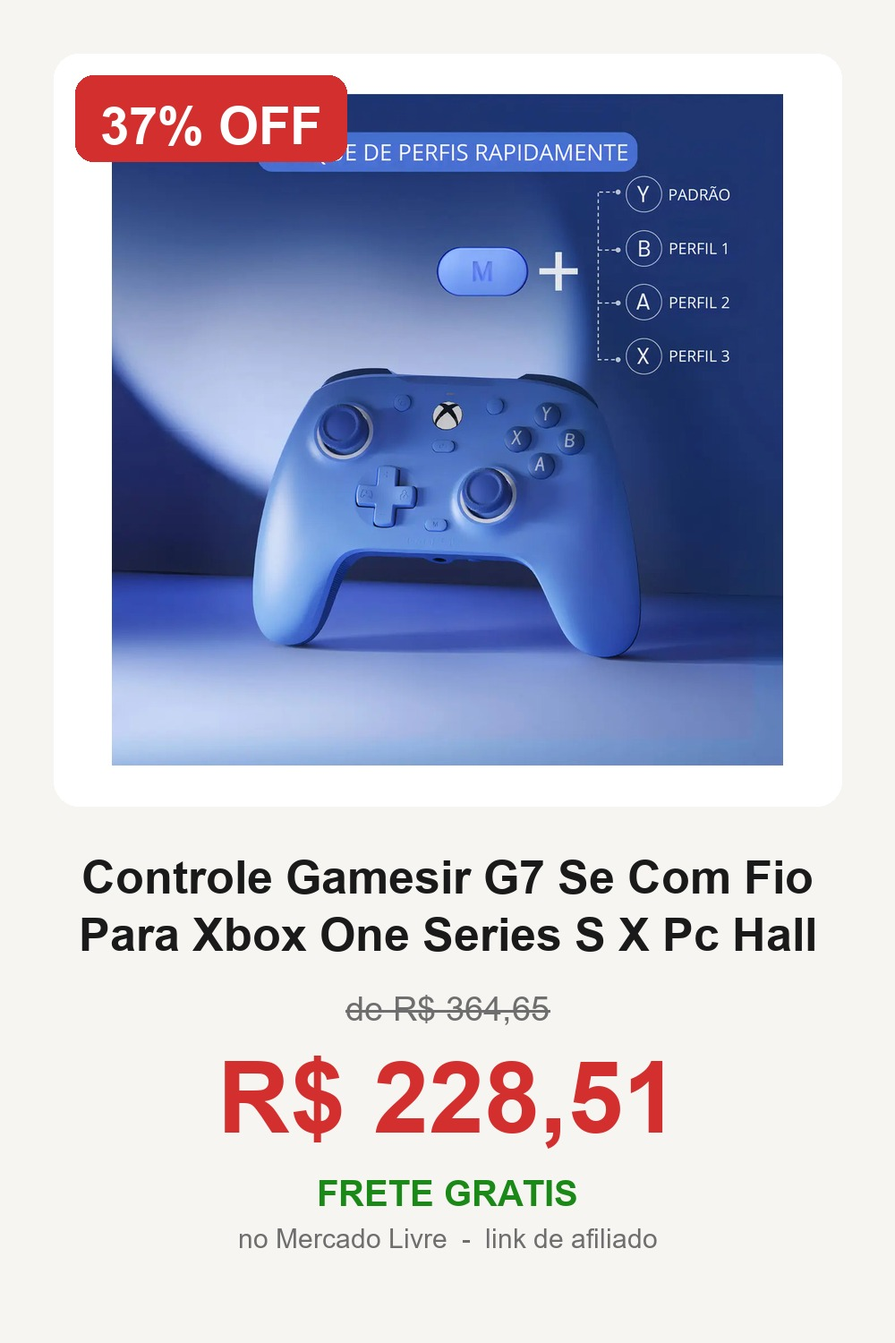
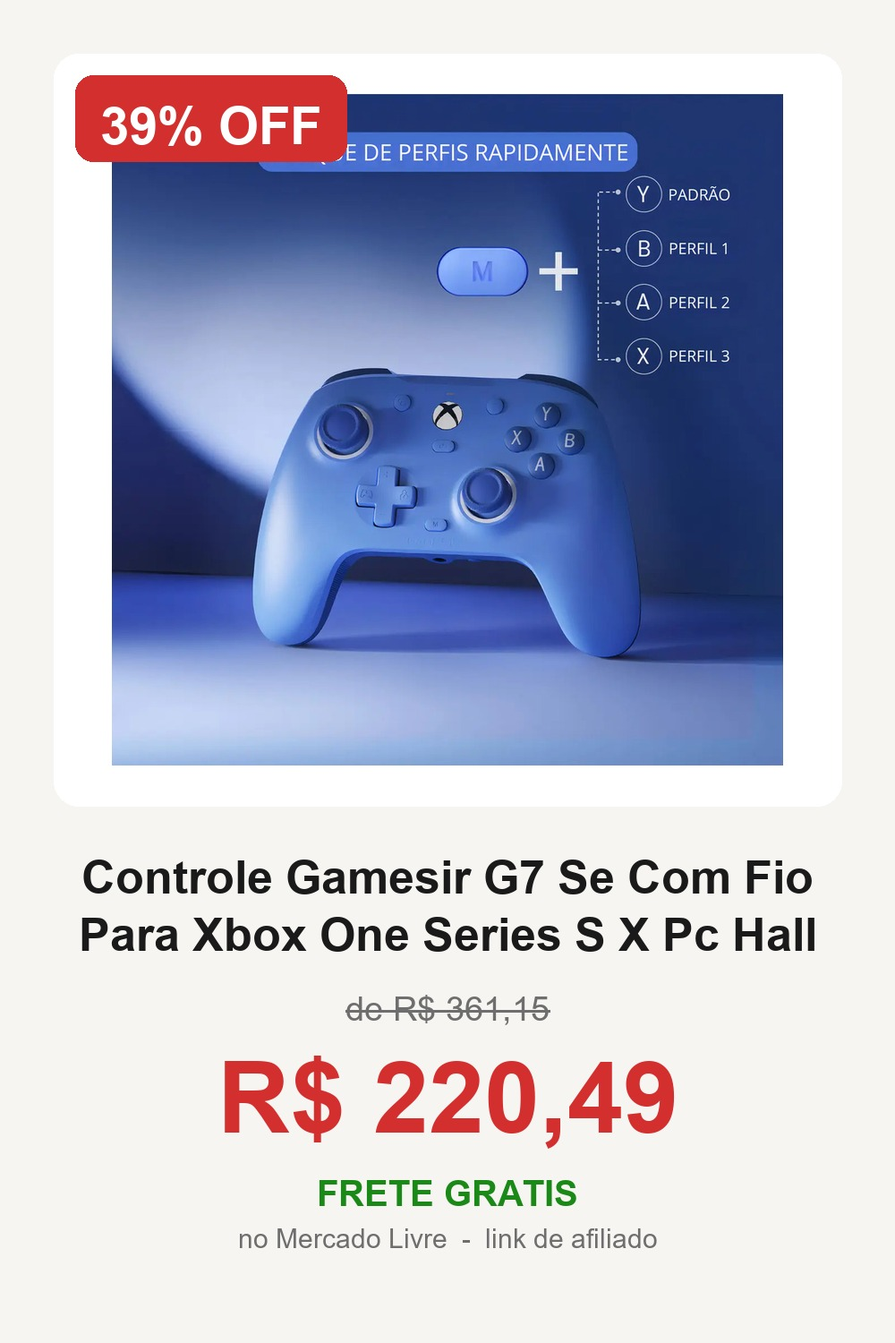
ofertas de 03/09/2026 09:41

Changed region(s): [[0.527, 0.7667, 0.775, 0.8587], [0.527, 0.736, 0.589, 0.7667], [0.155, 0.0613, 0.186, 0.1227]]

diff --git a/index.html b/index.html
@@ -52,46 +52,86 @@ footer{text-align:center;color:var(--sub);font-size:13px;padding:32px 20px 56px;
 <p class="aviso">Os links sao de afiliado: voce paga o mesmo preco e eu recebo uma comissao.</p>
 
 <main>
-  <h2>Achados de 02/09/2026</h2>
+  <h2>Achados de 03/09/2026</h2>
   <div class="grade">
-    <a class="item" href="https://www.mercadolivre.com.br/social/eulleriago?matt_word=lootlabpinterest&amp;matt_tool=51242712&amp;forceInApp=true&amp;ref=BKDtHsgtlVsVm5YjahXwwNdTLCNdoHk%2FYGz0mVS77veQ%2BIxzEgAKVHtendtmFe3o4a1ZdVBh58wDEw9vP3hiYuWu%2Fr8UUgN911I742DUuN4Sql%2FzBAq%2Fz5eH7yy29rQKyXG4bOF%2FvHxTA0Jatkl8jEzxPEL74lotQvk%2F9ccjX5x3WuQ2luuBshlINO6b%2Fo92iETcJw%3D%3D" target="_blank" rel="nofollow sponsored noopener">
-      <img src="img/MLB7087431076.jpg" alt="Controle joystick sem fio Sony PlayStation Dualshock 4 Wireless controller alpin" loading="lazy">
+    <a class="item" href="https://www.mercadolivre.com.br/social/eulleriago?matt_word=lootlabpinterest&amp;matt_tool=51242712&amp;forceInApp=true&amp;ref=BNJxq0vVRyHIVMAdJh2FC2KR3HT3OtnG%2FTlDx4QSzGY9DGMbO9Lk68NVpy%2FlhheNzeMRme7M026asDMY%2FMsAB7H0gQSnGi4ex65FnO2qD7rFlw89uTkdmyhjrxXZgRiYHRAI3E55qq5XbuxL6x256KIwuuzTqctFCmw%2BG4BTqs6XbcN5IKWrNBgj1W0ZQnUA%2FnVOFQ%3D%3D" target="_blank" rel="nofollow sponsored noopener">
+      <img src="img/MLB6993996520.jpg" alt="Kit 2 Câmeras de Segurança Woosh A28B Full HD Dupla Lente Wi-Fi com Visão Noturn" loading="lazy">
       <div class="txt">
-        <span class="tag">75% OFF</span>
-        <h3>Controle joystick sem fio Sony PlayStation Dualshock 4 Wireless contro</h3>
-        <div><span class="preco">R$ 97,47</span><span class="de">R$ 389,90</span></div>
+        <span class="tag">52% OFF</span>
+        <h3>Kit 2 Câmeras de Segurança Woosh A28B Full HD Dupla Lente Wi-Fi com Vi</h3>
+        <div><span class="preco">R$ 241,63</span><span class="de">R$ 500,00</span></div>
       </div>
     </a>
-    <a class="item" href="https://www.mercadolivre.com.br/social/eulleriago?matt_word=lootlabpinterest&amp;matt_tool=51242712&amp;forceInApp=true&amp;ref=BACSKZQXn2hOHjmvYhBrX37If1z%2B8xQTkpBoqB%2FoN6QXRhgisPsqubkbzEpL54iZ4ZYyKjXKLld7omt%2F6Qf83wjeE2x4PYM5mzBTHmCDUAbQA%2FIjGf%2Bru3rdwmSTqAdkjT0oiIzl4DX94kz3G6d3wEA3Zn2PChVCllH6%2BemLz8m6xnXMdiv5aeDJO9kL%2FhJ%2BuX1xEA%3D%3D" target="_blank" rel="nofollow sponsored noopener">
-      <img src="img/MLB6288675738.jpg" alt="Kit Cobre Leito Colcha Casal 3 Peças Boutis Lisas Dupla Face Porta Travesseiro A" loading="lazy">
-      <div class="txt">
-        <span class="tag">59% OFF</span>
-        <h3>Kit Cobre Leito Colcha Casal 3 Peças Boutis Lisas Dupla Face Porta Tra</h3>
-        <div><span class="preco">R$ 76,62</span><span class="de">R$ 187,90</span></div>
-      </div>
-    </a>
-    <a class="item" href="https://www.mercadolivre.com.br/social/eulleriago?matt_word=lootlabpinterest&amp;matt_tool=51242712&amp;forceInApp=true&amp;ref=BPnYxu7sb2Zx2pVYL78tdSvM%2Bzc4cNU1Y6%2FDuqVm9zLvKtoGQF1hnCUi%2F%2FMG%2BaxC3eKgsbIBIRt%2Bd%2BgQP691968nG4vjZNj%2BigH4qiY%2Bw9hGXtMZ7V0cZDlMDED%2BHmhNB7OP6CodIVLVra6YORFqYU0uGmMNipZvdh8IZ%2B81m5PQbXIp47BSi%2FQcoRbBhiGZvR5wgA%3D%3D" target="_blank" rel="nofollow sponsored noopener">
-      <img src="img/MLB5111786668.jpg" alt="Suporte De Mesa Para Tv/monitor De 17 Até 30 Preto Nb F80" loading="lazy">
-      <div class="txt">
-        <span class="tag">56% OFF</span>
-        <h3>Suporte De Mesa Para Tv/monitor De 17 Até 30 Preto Nb F80</h3>
-        <div><span class="preco">R$ 111,05</span><span class="de">R$ 250,90</span></div>
-      </div>
-    </a>
-    <a class="item" href="https://www.mercadolivre.com.br/social/eulleriago?matt_word=lootlabpinterest&amp;matt_tool=51242712&amp;forceInApp=true&amp;ref=BEArtbKuZL3J6hjBmAwVAuZJEBqH7wWWtzSGQtGY6%2F2YeN%2FJCrIqGBb8HUMU%2B1bETIHdHlptwRLpbTp4pFU9GFtnRYLhfGc08XcJmAXNOmmTIluM68G3kMfmW2KfB5Z3qYnQytyuAbyQmzkzxL4TrloLggXOBiWmb%2BK3eUy1LFT932n2HllaLFLE2JQPq9DmKGnnWQ%3D%3D" target="_blank" rel="nofollow sponsored noopener">
-      <img src="img/MLB4207618703.jpg" alt="Filamento 3d Petg 1,75mm 1kg Cor Laranja Masterprint Laranja" loading="lazy">
+    <a class="item" href="https://www.mercadolivre.com.br/social/eulleriago?matt_word=lootlabpinterest&amp;matt_tool=51242712&amp;forceInApp=true&amp;ref=BHvyKb%2BieJC7aOW74oGw4Qn0DmenQDiP8o2p%2B6wvEaHeodraEpugPxUYJi%2BsS1eGL3KFVt4PKIxSGnH2cVfBMSDALrSggw4jjUuwwV7F4O3SjVwDW3iKD7fOEe9xlaE4qoQ9gqy%2BNuSDlsMpvTQKZVGGN5UoSHJOhmd5mOe3yv5GQMUcYTEXZ3rL5qAkX3kVhaMF0A%3D%3D" target="_blank" rel="nofollow sponsored noopener">
+      <img src="img/MLB5410745852.jpg" alt="Fone de Ouvido Bluetooth 5.4 soundcore P30i da Anker, Cancelamento de Ruído Adap" loading="lazy">
       <div class="txt">
         <span class="tag">49% OFF</span>
-        <h3>Filamento 3d Petg 1,75mm 1kg Cor Laranja Masterprint Laranja</h3>
-        <div><span class="preco">R$ 75,50</span><span class="de">R$ 147,01</span></div>
+        <h3>Fone de Ouvido Bluetooth 5.4 soundcore P30i da Anker, Cancelamento de </h3>
+        <div><span class="preco">R$ 196,60</span><span class="de">R$ 389,00</span></div>
       </div>
     </a>
-    <a class="item" href="https://www.mercadolivre.com.br/social/eulleriago?matt_word=lootlabpinterest&amp;matt_tool=51242712&amp;forceInApp=true&amp;ref=BNW8%2FKuYXHbimDSS5kc8%2BdMj%2BrgvGOWlL9eIMPlBJaQQBQD3mZG%2BMXSLwZEu%2FYqXxZXSfuYeGF3hb3R64yzUOVwW%2B131x219ZAJEoVYxwKVHqDM0lasaTsvB4hNO2I7v6N%2FlstHzuqBcPByw6tv9xabFn57PhMLU%2Fee4TZfIde6RoTkMcQO3GJFDBFU1Swv4JLEsQQ%3D%3D" target="_blank" rel="nofollow sponsored noopener">
-      <img src="img/MLB6759050896.jpg" alt="Controle Gamesir T4 Nova Lite sem Fio para Pc Switch Android Ios Steam Celular H" loading="lazy">
+    <a class="item" href="https://www.mercadolivre.com.br/social/eulleriago?matt_word=lootlabpinterest&amp;matt_tool=51242712&amp;forceInApp=true&amp;ref=BM2GNFFJjwgSrE0%2Bp7mrsahojt91pOGCtPdkoD3QSwRGT7rV5LMbCMKVSRNeV85s%2FKy9Fxk4Qt7bvW3jOKgGkIgnmQJX0E5tRzWCNTvurW2qG5zfpskgJOZDqJnKMo%2B8ob0AvyehcUWp8Z%2FcTDsaXUZr2lAS8m6wEkF63Hof6ES5M8hqz%2F2n1Y9ZAt%2Bh6Ip9t5q3HQ%3D%3D" target="_blank" rel="nofollow sponsored noopener">
+      <img src="img/MLB6575378320.jpg" alt="Fone De Ouvido Headphone Dapon H02d Bluetooth 5.1 Over-ear 22 Horas De Bateria R" loading="lazy">
+      <div class="txt">
+        <span class="tag">49% OFF</span>
+        <h3>Fone De Ouvido Headphone Dapon H02d Bluetooth 5.1 Over-ear 22 Horas De</h3>
+        <div><span class="preco">R$ 76,29</span><span class="de">R$ 149,00</span></div>
+      </div>
+    </a>
+    <a class="item" href="https://www.mercadolivre.com.br/social/eulleriago?matt_word=lootlabpinterest&amp;matt_tool=51242712&amp;forceInApp=true&amp;ref=BCkc74GVrb3qgg6yR6Xm3pDnGV1fSrME1Ta25RjSXIzxeezLug%2F7F4BdkFzsavql3yfat6v0FVySgRez3qUuZoQIBia7T8NW7v4QrpX0ae3Yy%2BvDS627%2FKIDCgTjFifqp%2BGfq1pyUV9u0iREUygxNcQltDib6N489XFvBBVbpvyeZeM6r3J9jbkbKExPMsOLJrqGBg%3D%3D" target="_blank" rel="nofollow sponsored noopener">
+      <img src="img/MLB5410930110.jpg" alt="Fone de Ouvido Soundcore P20i Bluetooth 5.3 Grave Potente Drivers 10mm 30h Bater" loading="lazy">
+      <div class="txt">
+        <span class="tag">48% OFF</span>
+        <h3>Fone de Ouvido Soundcore P20i Bluetooth 5.3 Grave Potente Drivers 10mm</h3>
+        <div><span class="preco">R$ 155,97</span><span class="de">R$ 299,00</span></div>
+      </div>
+    </a>
+    <a class="item" href="https://www.mercadolivre.com.br/social/eulleriago?matt_word=lootlabpinterest&amp;matt_tool=51242712&amp;forceInApp=true&amp;ref=BOxCZsgdDioBywfotXiRgC7Yad2%2FRVLUejlfHuTT73e6hhb%2Feq%2BopcTI7KQmmbvavcd%2BpUrVWv3bC6DFYUZdW3Rp4PbhfrUkncwba0MwtBLIa9xTvI6G0%2BgxNQSG8tRt6Lc5wEd3Tj0kB0af5UvSYqzOgQ5StER3%2FV5M8lBn4xQraPwQIz66QM%2B%2BTmpwnEdrWs%2BGSw%3D%3D" target="_blank" rel="nofollow sponsored noopener">
+      <img src="img/MLB4260596585.jpg" alt="Bomba De Tirar Leite Materno Portátil Eletrica 24mm Sem BPA Não Precisa Segurar " loading="lazy">
+      <div class="txt">
+        <span class="tag">47% OFF</span>
+        <h3>Bomba De Tirar Leite Materno Portátil Eletrica 24mm Sem BPA Não Precis</h3>
+        <div><span class="preco">R$ 61,90</span><span class="de">R$ 115,99</span></div>
+      </div>
+    </a>
+    <a class="item" href="https://www.mercadolivre.com.br/social/eulleriago?matt_word=lootlabpinterest&amp;matt_tool=51242712&amp;forceInApp=true&amp;ref=BAKpwtttabiZnZYeze3JdFus1IrRN8mvVd%2F4iY%2BjEyRAQQyT2VjBa7Ik0xEl3MCOIJDeq%2FPQ0avjGUeSdV314lrbY5vxUYdmlntRJ1F%2F7MOAwS5BBVTrW4d7dZvZvZ9uNeQtKK36QcV4oxYhfoQZxSIuHtZ4UOEPXrcxekV7FAnZnm3qvlHGBv0ceVNrE6%2BMIhjLLg%3D%3D" target="_blank" rel="nofollow sponsored noopener">
+      <img src="img/MLB6307514748.jpg" alt="Power Bank Magnético Basike 10.000mAh para iPhone e Samsung com Carregamento Ráp" loading="lazy">
+      <div class="txt">
+        <span class="tag">46% OFF</span>
+        <h3>Power Bank Magnético Basike 10.000mAh para iPhone e Samsung com Carreg</h3>
+        <div><span class="preco">R$ 143,95</span><span class="de">R$ 266,00</span></div>
+      </div>
+    </a>
+    <a class="item" href="https://www.mercadolivre.com.br/social/eulleriago?matt_word=lootlabpinterest&amp;matt_tool=51242712&amp;forceInApp=true&amp;ref=BCKCTrOHpyyg5PnasvrYKj0tWao8PlMUG1q85r4KlDg81K6xy4Xtw37fmn2SxtIukPs6DFwVCl%2By0PvSa1zGM5I9eoCWW4sUNr65Hk20YHg1ffPZ%2BKSic2smTJSVGnnl%2FgAy07LvkEMoKDXNI2idkeOJ%2FaScm%2FabHOlBC71b1ykgwtvGAalZmgesqi6yHeMXFAWNTg%3D%3D" target="_blank" rel="nofollow sponsored noopener">
+      <img src="img/MLB6171580814.jpg" alt="Microfone Hollyland Lark A1 Duo Usb-c cor Preto" loading="lazy">
+      <div class="txt">
+        <span class="tag">45% OFF</span>
+        <h3>Microfone Hollyland Lark A1 Duo Usb-c cor Preto</h3>
+        <div><span class="preco">R$ 328,00</span><span class="de">R$ 599,00</span></div>
+      </div>
+    </a>
+    <a class="item" href="https://www.mercadolivre.com.br/social/eulleriago?matt_word=lootlabpinterest&amp;matt_tool=51242712&amp;forceInApp=true&amp;ref=BJJA0eE49gOrrs2aXJwzxaJxqv8plE0r5OMzQHP8atG7NaF8qrefld9OAIZGIqFN2HVvydMIThAyk5mMrJXf7GN004bHUTeDrCh3A4LTABjTAyVUAQSR5n0lBWSMqnU4mdH7%2B81eEELgVkPfTyfbDghO0Yi5%2Fqg%2Bt%2BFXDv%2FCpnwu7eb24w0S88C%2FspGDVz4nOb%2FC6g%3D%3D" target="_blank" rel="nofollow sponsored noopener">
+      <img src="img/MLB7575176162.jpg" alt="Mala de Bordo Rígida Sweet Studio Bege para Viagem, 55 cm, com Rodas Duplas e Ca" loading="lazy">
+      <div class="txt">
+        <span class="tag">43% OFF</span>
+        <h3>Mala de Bordo Rígida Sweet Studio Bege para Viagem, 55 cm, com Rodas D</h3>
+        <div><span class="preco">R$ 198,44</span><span class="de">R$ 347,99</span></div>
+      </div>
+    </a>
+    <a class="item" href="https://www.mercadolivre.com.br/social/eulleriago?matt_word=lootlabpinterest&amp;matt_tool=51242712&amp;forceInApp=true&amp;ref=BO3Fz8Tp96k2lZgwfG6CbR4JmdUqkuWwzj6yACfINA68gZ44g7paI1QE8MLGoBubHfs4cAWeZq%2B%2F1NwdODHRqY5CaT3rA1PwUbn8TznodCts%2FTiJ1CXsmG%2BcmsQOUt9PZbxSuPmIThQ1fFI33izRO4M5ZtHh6rAAlKyuU0zlsRsFGF6rkp%2BPeSs9OBgjiwjjTlYsag%3D%3D" target="_blank" rel="nofollow sponsored noopener">
+      <img src="img/MLB5758097762.jpg" alt="Fone Ouvido Bluetooth 5.4 Sem Fio Estojo De Carregamento Anti Ruido A Prova Dagu" loading="lazy">
+      <div class="txt">
+        <span class="tag">43% OFF</span>
+        <h3>Fone Ouvido Bluetooth 5.4 Sem Fio Estojo De Carregamento Anti Ruido A </h3>
+        <div><span class="preco">R$ 45,00</span><span class="de">R$ 78,90</span></div>
+      </div>
+    </a>
+    <a class="item" href="https://www.mercadolivre.com.br/social/eulleriago?matt_word=lootlabpinterest&amp;matt_tool=51242712&amp;forceInApp=true&amp;ref=BHKz%2BEJuxLGT%2BZbAXjje%2F7VO5MvFpwL9XcbIzQbvBnQ%2BaCn6NR%2Fj08w3n9wXwZp3LyzcMj0O8KLEEXHCy2C4bJ7sRbmD6%2FXx9YxCgejPzbpa9mxZHY5%2BUvOTfHi1aSx3Ww1EEVzebYV9yVq7TV4aKpYG%2FO4GZdRh4vm%2BCH6w%2BjslOjCLfw9UzqHhgtWFeNoifG9puw%3D%3D" target="_blank" rel="nofollow sponsored noopener">
+      <img src="img/MLB6538432578.jpg" alt="Fone Ouvido Bluetooth Compatível Com Iphone X Xr 11 12 13 14 15 16 17 Xs Pro Max" loading="lazy">
       <div class="txt">
         <span class="tag">40% OFF</span>
-        <h3>Controle Gamesir T4 Nova Lite sem Fio para Pc Switch Android Ios Steam</h3>
-        <div><span class="preco">R$ 179,99</span><span class="de">R$ 299,00</span></div>
+        <h3>Fone Ouvido Bluetooth Compatível Com Iphone X Xr 11 12 13 14 15 16 17 </h3>
+        <div><span class="preco">R$ 47,34</span><span class="de">R$ 78,90</span></div>
       </div>
     </a>
     <a class="item" href="https://www.mercadolivre.com.br/social/eulleriago?matt_word=lootlabpinterest&amp;matt_tool=51242712&amp;forceInApp=true&amp;ref=BOnsPCrYYUsEZuyen%2F6LwzgMtruuQczhOAc2DAoGrRHNTwQBmjpcmNxXsudOhXyUNZE9Qd7DP8%2BX5C9CLkD7iSiL4RxNxjdpJp%2BKhWklKZwclNfEb4LkR3JgQnlOuhAyOqLylD4GmFtlbm%2FMYlV9%2F8TPNEI5Aw9omkvcBLR6G8f7aUph6hpQCICYOM2Miv1vRWzxkA%3D%3D" target="_blank" rel="nofollow sponsored noopener">
@@ -102,36 +142,52 @@ footer{text-align:center;color:var(--sub);font-size:13px;padding:32px 20px 56px;
         <div><span class="preco">R$ 762,50</span><span class="de">R$ 1.250,00</span></div>
       </div>
     </a>
-    <a class="item" href="https://www.mercadolivre.com.br/social/eulleriago?matt_word=lootlabpinterest&amp;matt_tool=51242712&amp;forceInApp=true&amp;ref=BIz9M9ucITsBFQTuauU%2FKlzCNEACvzKwzgTRpJz5jRseD5FJE%2FGFR2gOfFjDFqh30At%2BIYnAxagqERhCojH419QUxgXznKKvDJQAIDuwzup9swUeKRYZTEyYqBNZbxJBryKlmw2PPlEyK4cf8n6wVT41mKm%2BEkJwf0YfKi9qf%2FbCOA7umQFab%2FX6PX9vfv5YZ2JQyA%3D%3D" target="_blank" rel="nofollow sponsored noopener">
-      <img src="img/MLB7331440278.jpg" alt="Protetor De Colchão Impermeável Solteiro Matelado Resistente A Líquidos Antiácar" loading="lazy">
+    <a class="item" href="https://www.mercadolivre.com.br/social/eulleriago?matt_word=lootlabpinterest&amp;matt_tool=51242712&amp;forceInApp=true&amp;ref=BOMBqAPh2KM5VEiv%2BHGZAHKpM%2FJoLvGMU2ejjBgRB7ikovrI12VuHVuqwDnp8at4RcUP83g1tPQpCJTkSZuDYwCqEV%2FUEU%2ByL85WypJtCVyrq7BYcmlbMd0SAXDEsJMzGb8QCBcNmf5PhS%2BPAZneEe1bcKMKkgUcJQy%2F2A%2FmB8FD3pxed2g71Jef0NhlY5%2Fn8wf%2B%2BQ%3D%3D" target="_blank" rel="nofollow sponsored noopener">
+      <img src="img/MLB7326480186.jpg" alt="Joystick sem fio Bluetooth azul claro Sony Dualsense Ps5" loading="lazy">
       <div class="txt">
-        <span class="tag">38% OFF</span>
-        <h3>Protetor De Colchão Impermeável Solteiro Matelado Resistente A Líquido</h3>
-        <div><span class="preco">R$ 43,55</span><span class="de">R$ 69,98</span></div>
+        <span class="tag">39% OFF</span>
+        <h3>Joystick sem fio Bluetooth azul claro Sony Dualsense Ps5</h3>
+        <div><span class="preco">R$ 426,00</span><span class="de">R$ 699,00</span></div>
       </div>
     </a>
-    <a class="item" href="https://www.mercadolivre.com.br/social/eulleriago?matt_word=lootlabpinterest&amp;matt_tool=51242712&amp;forceInApp=true&amp;ref=BMhkr1wfFbtGWDPWVlpXeEUcfUqQkvVS0dKKTSt3ts7UKIEZMJtYpj74ml9xc47WdmAKiQMl776Cwbo3PovCXNgWJwMboQ0b%2Fkwv24oD5b%2BUZ3odAuoRmXLWfV9aQhje1EnGgk%2BGOUBDgMHpgLn%2B7c2sexLtoKKRnk3g%2BAnWSc9TVVrlTwthSNZPK5dS1UYTLpmqqQ%3D%3D" target="_blank" rel="nofollow sponsored noopener">
-      <img src="img/MLB3811504878.jpg" alt="Papel Higiênico Neve Supreme Folha Tripla Leve 32 Pague 28" loading="lazy">
+    <a class="item" href="https://www.mercadolivre.com.br/social/eulleriago?matt_word=lootlabpinterest&amp;matt_tool=51242712&amp;forceInApp=true&amp;ref=BCD3b64hHXAD63vZn8uPBx4ygEKKRtHn7rgdecAhOvO9WOsTsP3Pa0AztC2yBDWKG5L2Q%2BqXIp%2BuAvfDWgGN%2FXU6X1wLzi3aNsi%2FTUgTMfzvzymZQgnaOd0E6cOLKV6IfJR7%2FABC8VwLx4UCVp8PmqufySYXvxcb9%2FihgW4%2BO%2BvSHpOfM%2Fxhz3kMRyLLz6037HA8UQ%3D%3D" target="_blank" rel="nofollow sponsored noopener">
+      <img src="img/MLB6075542836.jpg" alt="Controle Gamesir G7 Se Com Fio Para Xbox One Series S X Pc Hall Effect Botões Me" loading="lazy">
+      <div class="txt">
+        <span class="tag">39% OFF</span>
+        <h3>Controle Gamesir G7 Se Com Fio Para Xbox One Series S X Pc Hall Effect</h3>
+        <div><span class="preco">R$ 220,49</span><span class="de">R$ 361,15</span></div>
+      </div>
+    </a>
+    <a class="item" href="https://www.mercadolivre.com.br/social/eulleriago?matt_word=lootlabpinterest&amp;matt_tool=51242712&amp;forceInApp=true&amp;ref=BHGNBrJyN%2FcfYyB0W4iHZrcvDWw9S4sULqjVCuwSylXOZhMpVaROr5FnFK%2B%2FhpeO5f7mvl0agMKlzQMeF5HypsCm7XiMzDTpS6jSYFmZ53YhkUfRx3feYBOphkuitlPqFrpuGClZcbyazw3FvBrHnUTyi6Qm7CJUr5oHdtj%2ByT5foC2O6DrbhpxLkewYQlalo8Ca1Q%3D%3D" target="_blank" rel="nofollow sponsored noopener">
+      <img src="img/MLB6255077002.jpg" alt="Tênis Flyer Runner Mesh Feminino Puma" loading="lazy">
+      <div class="txt">
+        <span class="tag">39% OFF</span>
+        <h3>Tênis Flyer Runner Mesh Feminino Puma</h3>
+        <div><span class="preco">R$ 213,00</span><span class="de">R$ 349,99</span></div>
+      </div>
+    </a>
+    <a class="item" href="https://www.mercadolivre.com.br/social/eulleriago?matt_word=lootlabpinterest&amp;matt_tool=51242712&amp;forceInApp=true&amp;ref=BE0NWZUL6ah5MtNV0ozCOQ5iGiSgiHxnZMrlYTPZob5G2wpIy%2FC5FGi2Gxuo99AiCWIL5o0Umetc01kCwhuMRJ1kwtaPmkMCY4m0SmqJoxgdVqVvxKoReBpaalqw0RgpIH%2FLmTOAnJsg2yBkE5ksV54G7rMcjgWsLzSZfJsoRIxT%2FpMpy36P5DLwGF2UEf3irrmXsQ%3D%3D" target="_blank" rel="nofollow sponsored noopener">
+      <img src="img/MLB3999517235.jpg" alt="Chinelo Feminino Slim Havaianas Liso" loading="lazy">
+      <div class="txt">
+        <span class="tag">39% OFF</span>
+        <h3>Chinelo Feminino Slim Havaianas Liso</h3>
+        <div><span class="preco">R$ 42,99</span><span class="de">R$ 69,99</span></div>
+      </div>
+    </a>
+    <a class="item" href="https://www.mercadolivre.com.br/social/eulleriago?matt_word=lootlabpinterest&amp;matt_tool=51242712&amp;forceInApp=true&amp;ref=BHOP69IGrMuCvNNn3252nX2I4bKa9haNq%2FyZysYT91uOHj4BEL%2B8rOgs52%2BcOWJ8Vus8S68EwJnF7XRwic2%2B0NGAMEn%2FL0D3ugPy322tiQW6QapL88ZUgtaeCf%2F5aYMWGuzsedQ%2F9mOV%2FKVXs0GYHPeFEPscnbMyknbhMhHPzHMRi2Vsp%2BeAxgalE9z2YGHJB0%2FEIQ%3D%3D" target="_blank" rel="nofollow sponsored noopener">
+      <img src="img/MLB4564585853.jpg" alt="Lenços Umedecidos Huggies Higiene Superior - 192 unidades" loading="lazy">
+      <div class="txt">
+        <span class="tag">37% OFF</span>
+        <h3>Lenços Umedecidos Huggies Higiene Superior - 192 unidades</h3>
+        <div><span class="preco">R$ 30,99</span><span class="de">R$ 48,96</span></div>
+      </div>
+    </a>
+    <a class="item" href="https://www.mercadolivre.com.br/social/eulleriago?matt_word=lootlabpinterest&amp;matt_tool=51242712&amp;forceInApp=true&amp;ref=BP9%2F%2FBwRvol1a3BAn0owhmwbQH476NRCzkPZu3uqouT7Fe1yo1LKMx%2BvA7JNxURcYFip3inKKSrxMCLo32SqdoKWUV3RlFq5V6VUSxcdFz50kEFgCnc7rPGBozawDSvKvW%2FKUw9v2ITFwlYGppgHoH%2Bz8e78DJxQbx15t8pMksEp8Puu2v67acJt8HtgvKeIEagi8g%3D%3D" target="_blank" rel="nofollow sponsored noopener">
+      <img src="img/MLB3811719640.jpg" alt="Papel higiênico Neve Toque da Seda folha dupla 30 m de 32 un" loading="lazy">
       <div class="txt">
         <span class="tag">35% OFF</span>
-        <h3>Papel Higiênico Neve Supreme Folha Tripla Leve 32 Pague 28</h3>
-        <div><span class="preco">R$ 60,12</span><span class="de">R$ 92,30</span></div>
-      </div>
-    </a>
-    <a class="item" href="https://www.mercadolivre.com.br/social/eulleriago?matt_word=lootlabpinterest&amp;matt_tool=51242712&amp;forceInApp=true&amp;ref=BB9idWetZSpgyhDmMG5HUZIB8MISOkLnq720r%2BVNwJhTDqr7Iwu4E9RY0bnP5ouhLys1o5HnuMMTVxoTLa8tM2pfFCq6D8uObkt0kAyiV321zAjrJ%2BCVHMY%2FKbGeT0A67p6PaKZeI1JRk8OZyEdrF9JpsdPF12VyEy6Nv5qQAnUB42IsQ97HoxLOdL7SJJ%2Fdu85H3Q%3D%3D" target="_blank" rel="nofollow sponsored noopener">
-      <img src="img/MLB2089615228.jpg" alt="Omo lava roupas líquido profissional Perfect White 7L" loading="lazy">
-      <div class="txt">
-        <span class="tag">34% OFF</span>
-        <h3>Omo lava roupas líquido profissional Perfect White 7L</h3>
-        <div><span class="preco">R$ 85,99</span><span class="de">R$ 129,79</span></div>
-      </div>
-    </a>
-    <a class="item" href="https://www.mercadolivre.com.br/social/eulleriago?matt_word=lootlabpinterest&amp;matt_tool=51242712&amp;forceInApp=true&amp;ref=BJfczFNq4DR8P7n%2BZ%2FSaMvLdxKRZ4kvVdmlg72q0N2RHG4p6uf7TTSGy4kvPuRMtqHzqHCO0S63JSpPhnq0xNr4mZqGE5qqxAGEbEg3Rzmz3%2BLJz%2BUW1Eh3o5N4vEtpcqpZk%2FM%2Bs0pe5x%2FOrlLCDQ1zTfkgHfs1almOgPeFM7w8geOWiE2FU2vbWFc01hyZzuZRGJQ%3D%3D" target="_blank" rel="nofollow sponsored noopener">
-      <img src="img/MLB4755857128.jpg" alt="Shampoo Anticaspa Cabelos Normais a Oleosos, Dercos DS Vichy, 300g" loading="lazy">
-      <div class="txt">
-        <span class="tag">33% OFF</span>
-        <h3>Shampoo Anticaspa Cabelos Normais a Oleosos, Dercos DS Vichy, 300g</h3>
-        <div><span class="preco">R$ 95,99</span><span class="de">R$ 143,90</span></div>
+        <h3>Papel higiênico Neve Toque da Seda folha dupla 30 m de 32 un</h3>
+        <div><span class="preco">R$ 58,99</span><span class="de">R$ 90,50</span></div>
       </div>
     </a>
     <a class="item" href="https://www.mercadolivre.com.br/social/eulleriago?matt_word=lootlabpinterest&amp;matt_tool=51242712&amp;forceInApp=true&amp;ref=BOvrgU7wtZ0UYr5Q2Wu4Vv9gwEyCaIjRiGVlvToPirQODj2vbfKjBDzR%2FdZ%2FvfhUMNg2uqgEhGdUr03FM%2BxZ92zPlm2ZioEw6Q7vzqMqtr1R2j83%2B8u%2BffidEKSbNPXsxwnbuyZi08%2FNulWbg6MECz%2B4L%2BEYtFz%2BdyYgpMLchRJNB6ZG3bR%2B7NLSM98C20W%2FcwwxfA%3D%3D" target="_blank" rel="nofollow sponsored noopener">
@@ -150,100 +206,44 @@ footer{text-align:center;color:var(--sub);font-size:13px;padding:32px 20px 56px;
         <div><span class="preco">R$ 89,91</span><span class="de">R$ 134,90</span></div>
       </div>
     </a>
-    <a class="item" href="https://www.mercadolivre.com.br/social/eulleriago?matt_word=lootlabpinterest&amp;matt_tool=51242712&amp;forceInApp=true&amp;ref=BFXKUM%2FNIHtwe31tTgt3JLvJjY0TRcYLtsR7q%2FP0TWDItzsFAj%2Bp2rFi1y%2BXF%2BuQAgnelGVx5tyhiHJO6HT5lAPiDP%2FZfLvtHVLs1VA2f%2B%2FL0K725wj5Rm9KNvQrGmNcD3ZlbDLkj1WYeuvbOe3njQmX7exkZpzztt3kUBOaMXXC%2FUfnez8jyx69uUi2YQPEj%2F%2Bjag%3D%3D" target="_blank" rel="nofollow sponsored noopener">
-      <img src="img/MLB4555612520.jpg" alt="Huggies Fralda Pants Roupinha Proteção Acolchoada XXG - 58 Un" loading="lazy">
+    <a class="item" href="https://www.mercadolivre.com.br/social/eulleriago?matt_word=lootlabpinterest&amp;matt_tool=51242712&amp;forceInApp=true&amp;ref=BCsa%2BN3u8fDyDYjVJj8QYqDytCmP2rsLVhoiL0mK%2BBfn93Akqrkwqz6Zr%2BPvzAekmgxqBIOJGMqxz5pyfiTuVF6hOQy8D0jxIeFNyObXz30vhdKlSXUh8vR3y%2B%2BB9HvHg1FjUt8e%2B%2BDRMNHBckPnSWrNsQSEl0xM0sYxwCLJDfOJ%2FluT7x7b5EZsdvLw7nzNvxni9g%3D%3D" target="_blank" rel="nofollow sponsored noopener">
+      <img src="img/MLB7227376264.jpg" alt="Huggies Fralda Pants Roupinha Proteção Acolchoada G - 30 Un" loading="lazy">
       <div class="txt">
         <span class="tag">33% OFF</span>
-        <h3>Huggies Fralda Pants Roupinha Proteção Acolchoada XXG - 58 Un</h3>
-        <div><span class="preco">R$ 76,80</span><span class="de">R$ 114,33</span></div>
+        <h3>Huggies Fralda Pants Roupinha Proteção Acolchoada G - 30 Un</h3>
+        <div><span class="preco">R$ 77,99</span><span class="de">R$ 116,59</span></div>
       </div>
     </a>
-    <a class="item" href="https://www.mercadolivre.com.br/social/eulleriago?matt_word=lootlabpinterest&amp;matt_tool=51242712&amp;forceInApp=true&amp;ref=BHDFzeaRNRBbH4hZY5QYBFpIEX2Xm%2FyTdaFib9P0REdgZT6IimknnFJaeCiSjWQWRbobEBYRf1XqVOO9V4DTvSo8CBJdKaJwhqIlYNDCT4RkaCdYG63eYsrz%2FyHcayBqI0G%2FMpbzU%2FUkLrs1ARjtnpJvlvSf1V7628Rgqw1aab6ygldjfl8SpOY%2F7KE9OeE7zFxhvA%3D%3D" target="_blank" rel="nofollow sponsored noopener">
-      <img src="img/MLB7347668694.jpg" alt="Fone de ouvido Bluetooth, Redmi Buds 6 Play Original, Preto." loading="lazy">
-      <div class="txt">
-        <span class="tag">33% OFF</span>
-        <h3>Fone de ouvido Bluetooth, Redmi Buds 6 Play Original, Preto.</h3>
-        <div><span class="preco">R$ 76,24</span><span class="de">R$ 113,00</span></div>
-      </div>
-    </a>
-    <a class="item" href="https://www.mercadolivre.com.br/social/eulleriago?matt_word=lootlabpinterest&amp;matt_tool=51242712&amp;forceInApp=true&amp;ref=BM%2FbAXLEcCy057ySsKaeeV9MAahvLRH%2FfjKv8KntLOUj%2Banc4ZmjYUQnaQnF%2BicvwGPJg2Vh20zxji3NVJMI5NcqA6mlYPhDc9fvOXSI%2FiXdIBCqbzmCP%2BhlVK2s07UzJKoA59RikBTjWKTYkj6Mh2vngD4UkvA7MxtGdNfp4UfqNQvpInb2p3THyNYA9iML2b0sDg%3D%3D" target="_blank" rel="nofollow sponsored noopener">
-      <img src="img/MLB7444334052.jpg" alt="Power Bank Basike 10000mAh Branco, Carga Rápida 22.5W para iPhone e Samsung, Com" loading="lazy">
-      <div class="txt">
-        <span class="tag">32% OFF</span>
-        <h3>Power Bank Basike 10000mAh Branco, Carga Rápida 22.5W para iPhone e Sa</h3>
-        <div><span class="preco">R$ 76,60</span><span class="de">R$ 112,82</span></div>
-      </div>
-    </a>
-    <a class="item" href="https://www.mercadolivre.com.br/social/eulleriago?matt_word=lootlabpinterest&amp;matt_tool=51242712&amp;forceInApp=true&amp;ref=BKguifquzn5XFRUdJ%2BlnuEHOj15rkMIYEQt%2F6k2jzTvsABgAtnZ6P9UL9HfjxlsIe3sKdtWzO3shmfeN0moDJKBd9%2FBA%2BHxJegEIcorM%2F8VXXoyaGLovbte2R%2FK43ckH7awLUwByJAb3%2BUsISBr5bu%2Bi0YW7Cfg3sPAqLKPTJ1ii%2B2Wo6ygiH8P9O10uwuKwh2Ly7Q%3D%3D" target="_blank" rel="nofollow sponsored noopener">
-      <img src="img/MLB6255461148.jpg" alt="Tênis Flyer Runner Mesh Bdp Puma" loading="lazy">
+    <a class="item" href="https://www.mercadolivre.com.br/social/eulleriago?matt_word=lootlabpinterest&amp;matt_tool=51242712&amp;forceInApp=true&amp;ref=BOLQQ3LfRPeFmBY%2BRWV2NW%2BUfabzs%2BDm3pXOdpVJpMkmUxwl3csbF%2BKr2HkgjaioS6VcIXdzSpZdXcS7d%2BrjTU5I2XydsOJb3%2FRHOQItxGEDkUB4GOvQmjhxl1xaIs9pLoKUI7Mjys6Nwr%2FJUvzxvb%2FwuntXXIkQyxRntDq8s8NJHTPdCBVXWZBgoJGxAMV3xUUvKw%3D%3D" target="_blank" rel="nofollow sponsored noopener">
+      <img src="img/MLB4195198970.jpg" alt="Protetor Solar Facial Antioleosidade FPS 80 Anthelios La Roche-Posay 40g" loading="lazy">
       <div class="txt">
         <span class="tag">31% OFF</span>
-        <h3>Tênis Flyer Runner Mesh Bdp Puma</h3>
-        <div><span class="preco">R$ 239,99</span><span class="de">R$ 349,99</span></div>
+        <h3>Protetor Solar Facial Antioleosidade FPS 80 Anthelios La Roche-Posay 4</h3>
+        <div><span class="preco">R$ 82,82</span><span class="de">R$ 120,90</span></div>
       </div>
     </a>
-    <a class="item" href="https://www.mercadolivre.com.br/social/eulleriago?matt_word=lootlabpinterest&amp;matt_tool=51242712&amp;forceInApp=true&amp;ref=BMAqfrcAsCBME6WKVoG1duSzHU3EKKMNu3ATVGyyTiXGpJ5D%2BwGeKz4TfbZcHC4ffmWeeOhDraYGSk%2BCTfHhd4lflpi65rLMhSQvXjx9mbtBB1z4gCVqJ9gkw0LI7R%2BnOW6%2BswFRItlNE%2BEpTBJfzRuQx7w9Qo2xTRHg2JFG2iRdnFy8nQL0II4XH3cyqq8oZz5qtg%3D%3D" target="_blank" rel="nofollow sponsored noopener">
-      <img src="img/MLB6255788480.jpg" alt="Tênis Flyer Runner Mesh Feminino Puma" loading="lazy">
+    <a class="item" href="https://www.mercadolivre.com.br/social/eulleriago?matt_word=lootlabpinterest&amp;matt_tool=51242712&amp;forceInApp=true&amp;ref=BP2AJm%2BWtR5fUQFIFhCEKBu20rLqyXLwLSP8oPd0J%2BhwthZ0R4pmxeUNLDQcEr71XYcaLWgbx99mX8QrfXA30fro%2FpG77ElWoFaZ5yGLUjjwv4P69oAX%2BuT4fcmrJVCssJBSENWyISK9KX5DisBZltzGwYu6WAiselBH%2Bi2ZHyV9DaBCgI%2FGkvl3OIwEMPrFO%2BJ7jw%3D%3D" target="_blank" rel="nofollow sponsored noopener">
+      <img src="img/MLB5271020892.jpg" alt="Protetor Solar Em Bastão Antimanchas FPS 90 Cor 1 15g Sallve" loading="lazy">
       <div class="txt">
         <span class="tag">31% OFF</span>
-        <h3>Tênis Flyer Runner Mesh Feminino Puma</h3>
-        <div><span class="preco">R$ 239,99</span><span class="de">R$ 349,99</span></div>
+        <h3>Protetor Solar Em Bastão Antimanchas FPS 90 Cor 1 15g Sallve</h3>
+        <div><span class="preco">R$ 54,95</span><span class="de">R$ 79,90</span></div>
       </div>
     </a>
-    <a class="item" href="https://www.mercadolivre.com.br/social/eulleriago?matt_word=lootlabpinterest&amp;matt_tool=51242712&amp;forceInApp=true&amp;ref=BJ%2BIqmed3UVWcUjG%2BmK6oGBtM7BDb%2FfabNIVrvFYZjCD0G9rjEQdEXOITil4ZJtY35jpItdWhDzDrOjIm9t0G1IIVIiU5AMvl1TbGg%2Bq6BCm93zdSLx%2FCq%2FN93%2BbAkZzokbcWjZiB3HY%2FfpydRNMnE9PQCn79%2FeIY5TW%2Bygx4ctvNHGjLX0mp92y7hq3vSedOQoiBg%3D%3D" target="_blank" rel="nofollow sponsored noopener">
-      <img src="img/MLB6981249920.jpg" alt="Bicicleta De Equilíbrio Buba 4 Rodas Sem Pedal Infantil Bebê Preto" loading="lazy">
-      <div class="txt">
-        <span class="tag">31% OFF</span>
-        <h3>Bicicleta De Equilíbrio Buba 4 Rodas Sem Pedal Infantil Bebê Preto</h3>
-        <div><span class="preco">R$ 184,90</span><span class="de">R$ 267,01</span></div>
-      </div>
-    </a>
-    <a class="item" href="https://www.mercadolivre.com.br/social/eulleriago?matt_word=lootlabpinterest&amp;matt_tool=51242712&amp;forceInApp=true&amp;ref=BNFswQzlgWKgSOTvI6PSjlNuM4OCMyMSzxP3poZb335usX%2BSIQ2BFCPpfG62h8wKLhsGqvky1tcLAtujmGogs3pqcHsoXaWAtxcEY91jTBr2FO9VobSxeiTlnJVSueopoqD9IaiQi%2FlloUdtm8WjtSYAE5ygcy205OVox0yRqfUhGRl4CPsFNR%2FlmJBd2lcTg0POaQ%3D%3D" target="_blank" rel="nofollow sponsored noopener">
-      <img src="img/MLB6739561262.jpg" alt="Controle Sem Fio Bluetooth Para Videogame Tv Smart Pc Gamer Celular Dual Shock J" loading="lazy">
-      <div class="txt">
-        <span class="tag">30% OFF</span>
-        <h3>Controle Sem Fio Bluetooth Para Videogame Tv Smart Pc Gamer Celular Du</h3>
-        <div><span class="preco">R$ 54,90</span><span class="de">R$ 78,90</span></div>
-      </div>
-    </a>
-    <a class="item" href="https://www.mercadolivre.com.br/social/eulleriago?matt_word=lootlabpinterest&amp;matt_tool=51242712&amp;forceInApp=true&amp;ref=BPrUTIeLa9s16qwX1%2Bh5LdQ1INfehWvKtSEyVRmZWWM5kP2s96cE9sEgE%2FDnis8vfmesUg0aJ452pzXN%2BR8v3fGAABMW2DxQ%2FLHuvlYc59HSZri6%2FQ0uTL4HtGh9%2FDW88bqsHTC0Eq0JeOuPe%2BEIYNYWkJ%2B01%2Bbxw%2FLe0kjtOte8F8nw86vEIQGh4WwEBOUh%2FUD5xw%3D%3D" target="_blank" rel="nofollow sponsored noopener">
-      <img src="img/MLB7159824862.jpg" alt="Protetor Solar Facial com Cor FPS 70 Alta Cobertura - L&#x27;Oréal Paris Solar Expert" loading="lazy">
-      <div class="txt">
-        <span class="tag">30% OFF</span>
-        <h3>Protetor Solar Facial com Cor FPS 70 Alta Cobertura - L&#x27;Oréal Paris So</h3>
-        <div><span class="preco">R$ 44,50</span><span class="de">R$ 63,99</span></div>
-      </div>
-    </a>
-    <a class="item" href="https://www.mercadolivre.com.br/social/eulleriago?matt_word=lootlabpinterest&amp;matt_tool=51242712&amp;forceInApp=true&amp;ref=BKpfKOZ51fr6QTg5B6U3zgLgpogzaPicxXCRGpRwUCh6d4Olr0GLZLn1DzlK9OwYtnfOH97ffhmqLgwL9fZeCIj%2BgZBtu96PIn%2BulflBqz8QbuipudTQlRvUWB00Cyovav%2BIwezjU3ZGdgZ%2FwEwjnmn%2FlfcXfRKQFg0LznrmoN92Velhn72aizRcibT830FdIzQrrA%3D%3D" target="_blank" rel="nofollow sponsored noopener">
-      <img src="img/MLB4559000033.jpg" alt="Processador de Áudio Digital Taramps Pro 2.4S para Som Automotivo com Crossover " loading="lazy">
+    <a class="item" href="https://www.mercadolivre.com.br/social/eulleriago?matt_word=lootlabpinterest&amp;matt_tool=51242712&amp;forceInApp=true&amp;ref=BGH5%2BO5Z%2FumTknWkwNS3G6xO%2B%2F6HIjXrfLHzNbqTGNpcu9G7YaKJwnrcz3HPsxgLmf1HjFcO%2Fk5QYafQZQIMcTCKJhh%2FKI33k%2BFV6xgdzJJXmC%2F0S8DoN7GyPrlj1XZfSGPRPCI9rOUlZbYWRrJs%2FSxQ0yyyxqqIYO%2FL641VZ1XSy1ULwXbrqpkmXcwgrfgZwuKIyA%3D%3D" target="_blank" rel="nofollow sponsored noopener">
+      <img src="img/MLB4010173257.jpg" alt="Cortina 2.00 x 1.80 m Blackout Blecaute Palha Corta Luz Em Tecido Grosso Para Qu" loading="lazy">
       <div class="txt">
         <span class="tag">29% OFF</span>
-        <h3>Processador de Áudio Digital Taramps Pro 2.4S para Som Automotivo com </h3>
-        <div><span class="preco">R$ 164,00</span><span class="de">R$ 230,00</span></div>
-      </div>
-    </a>
-    <a class="item" href="https://www.mercadolivre.com.br/social/eulleriago?matt_word=lootlabpinterest&amp;matt_tool=51242712&amp;forceInApp=true&amp;ref=BFSu%2BLm1KT7lHDtUnFr%2FdPpFNYLb0hLMpypBJX1raAFCYAQWkb4DJjBqmSUxj60JhXBh%2Far1zP2KPm7u%2Brmy9HkITAVwd0l63Z%2B9SfISR7F6OLQgkwz51vePzXYc4gO05ESRYLTtSbRrSbkH%2B%2BwbC%2BYgILgzBZ2ADyaabwnjCD8xKFozPycotZsPrHMKzZv8xlF4iw%3D%3D" target="_blank" rel="nofollow sponsored noopener">
-      <img src="img/MLB4276034823.jpg" alt="Aparador De Pelos Super Groom 10 Mondial 6w Bivolt BG-03" loading="lazy">
-      <div class="txt">
-        <span class="tag">29% OFF</span>
-        <h3>Aparador De Pelos Super Groom 10 Mondial 6w Bivolt BG-03</h3>
-        <div><span class="preco">R$ 139,35</span><span class="de">R$ 194,90</span></div>
-      </div>
-    </a>
-    <a class="item" href="https://www.mercadolivre.com.br/social/eulleriago?matt_word=lootlabpinterest&amp;matt_tool=51242712&amp;forceInApp=true&amp;ref=BPIpZqoHiRtXvWrT%2FDPmBe9HgoGyzbH0kmB%2FjWj3JoPqVBYGf3yVAQ85184Urzc0y1yqJgLgLw4hCwlV3OvLisKr5S4LhWZTFJkZm%2BXcS9TDkS3Kzpbu0IRyCVkuwV3nGyZzAHU4cA8hjlStUcMXKE101EG1EMaAhAGKCgzGCK5S2BD4jtPXN8n3qCfd0QgjIKUDhw%3D%3D" target="_blank" rel="nofollow sponsored noopener">
-      <img src="img/MLB3864914209.jpg" alt="Cortina 2.00 x 1.80 m Blackout Blecaute Preto Corta Luz Em Tecido Grosso Para Qu" loading="lazy">
-      <div class="txt">
-        <span class="tag">29% OFF</span>
-        <h3>Cortina 2.00 x 1.80 m Blackout Blecaute Preto Corta Luz Em Tecido Gros</h3>
+        <h3>Cortina 2.00 x 1.80 m Blackout Blecaute Palha Corta Luz Em Tecido Gros</h3>
         <div><span class="preco">R$ 55,90</span><span class="de">R$ 78,90</span></div>
       </div>
     </a>
-    <a class="item" href="https://www.mercadolivre.com.br/social/eulleriago?matt_word=lootlabpinterest&amp;matt_tool=51242712&amp;forceInApp=true&amp;ref=BGMjb0UVwGdEuKqMxhdPiKfVkcOuGWRpA1cPiD1mCam8vQ95o98bC%2BPjKGm%2BnWo2wD1P6dDrKdm8V0zKgpy5QiRRIJmatUheUzHoyGcxP1l2GCO7ZA5sxlRzaRYo51oDNWOeLZBjLmts6NtHXBpGPgfdl022Jg009gvRapxwAUKgY2HQl1MtJCZW7r3lO0bE7zXt2A%3D%3D" target="_blank" rel="nofollow sponsored noopener">
-      <img src="img/MLB4208265539.jpg" alt="Shampoo Johnson&#x27;s Baby Regular 750ml" loading="lazy">
+    <a class="item" href="https://www.mercadolivre.com.br/social/eulleriago?matt_word=lootlabpinterest&amp;matt_tool=51242712&amp;forceInApp=true&amp;ref=BM47R0RnJ9q9rA9FmG6o0Ihf0zfE8S8Ih1UZCZDLhCzE1l6pbRIt0l2stwbXcQc3cS2uwh%2B%2FVZ%2BKcU%2F3jCN8ZEDcxVhBkb2l%2B%2BzSoRd2UqlhzkRvsv%2F2zWjkkvxSFsrl8So5khyhDhAzu7Yd5%2FYe7RA5d3BfXMvuPU9Bc3WsLhhTbEgLm%2FveQxWq8GUR8qI09mitmA%3D%3D" target="_blank" rel="nofollow sponsored noopener">
+      <img src="img/MLB3339039956.jpg" alt="Fralda Descartável Pom Pom Proteção de Mãe XG com 38 Unidades" loading="lazy">
       <div class="txt">
-        <span class="tag">29% OFF</span>
-        <h3>Shampoo Johnson&#x27;s Baby Regular 750ml</h3>
-        <div><span class="preco">R$ 51,66</span><span class="de">R$ 72,30</span></div>
+        <span class="tag">28% OFF</span>
+        <h3>Fralda Descartável Pom Pom Proteção de Mãe XG com 38 Unidades</h3>
+        <div><span class="preco">R$ 36,12</span><span class="de">R$ 50,30</span></div>
       </div>
     </a>
   </div>
